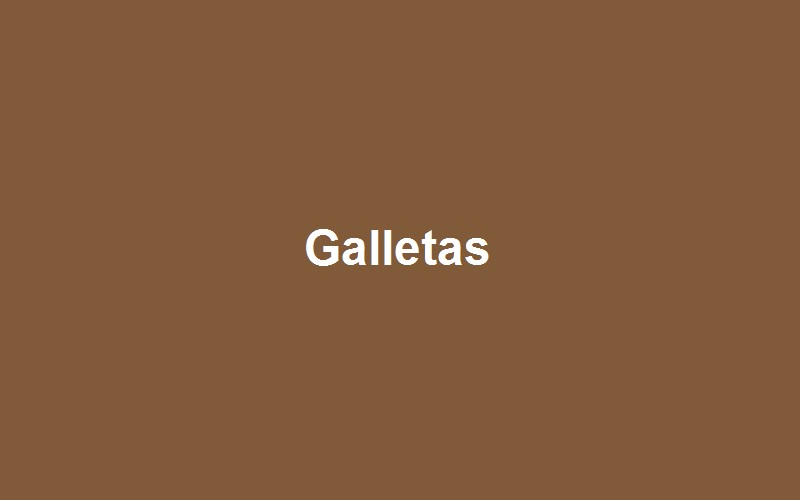
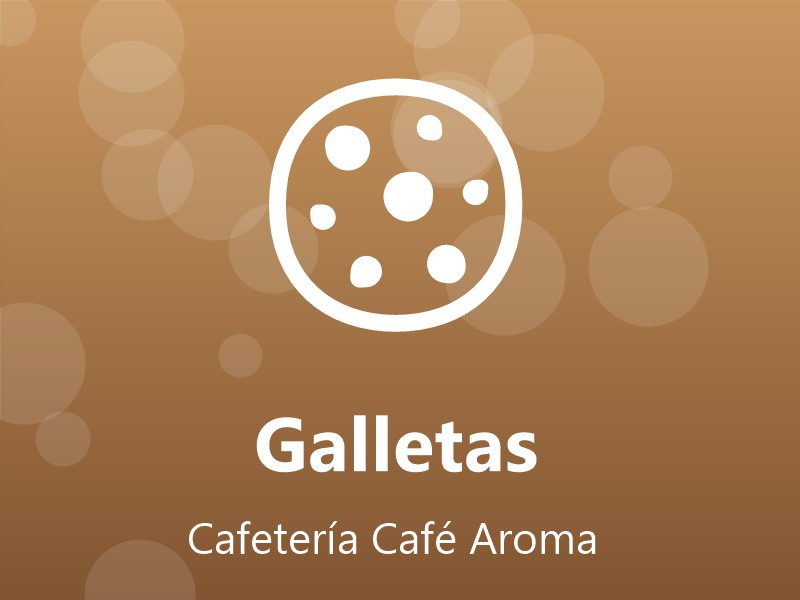
Mejora de imagenes tematicas y ajustes de diseno (portada, tarjetas, promociones)

diff --git a/cafeteria/css/estilos.css b/cafeteria/css/estilos.css
@@ -10,8 +10,25 @@ body {
 
 /* Portada */
 .portada {
+    position: relative;
     background: url('../img/portada.jpg') center center / cover no-repeat;
     min-height: 70vh;
+    overflow: hidden;
+}
+
+.portada::before {
+    content: '';
+    position: absolute;
+    top: 0;
+    left: 0;
+    right: 0;
+    bottom: 0;
+    background: rgba(0, 0, 0, 0.55);
+}
+
+.portada .container {
+    position: relative;
+    z-index: 1;
 }
 
 .portada h1 {
@@ -21,12 +38,17 @@ body {
 }
 
 .portada p {
+    max-width: 640px;
+    margin-left: auto;
+    margin-right: auto;
     text-shadow: 1px 1px 4px rgba(0, 0, 0, 0.8);
 }
 
 /* Tarjetas del menú */
 .card {
     border: none;
+    border-radius: 0.5rem;
+    overflow: hidden;
     box-shadow: 0 4px 12px rgba(0, 0, 0, 0.15);
     transition: transform 0.2s ease;
 }
@@ -36,12 +58,25 @@ body {
 }
 
 .card-img-top {
+    width: 100%;
     height: 220px;
     object-fit: cover;
+    display: block;
+}
+
+.card-title {
+    font-weight: 600;
 }
 
 .precio {
     font-size: 1.2rem;
     font-weight: bold;
     margin-bottom: 0.5rem;
+}
+
+/* Promociones */
+.alert {
+    border: none;
+    border-radius: 0.5rem;
+    min-height: 100%;
 }
